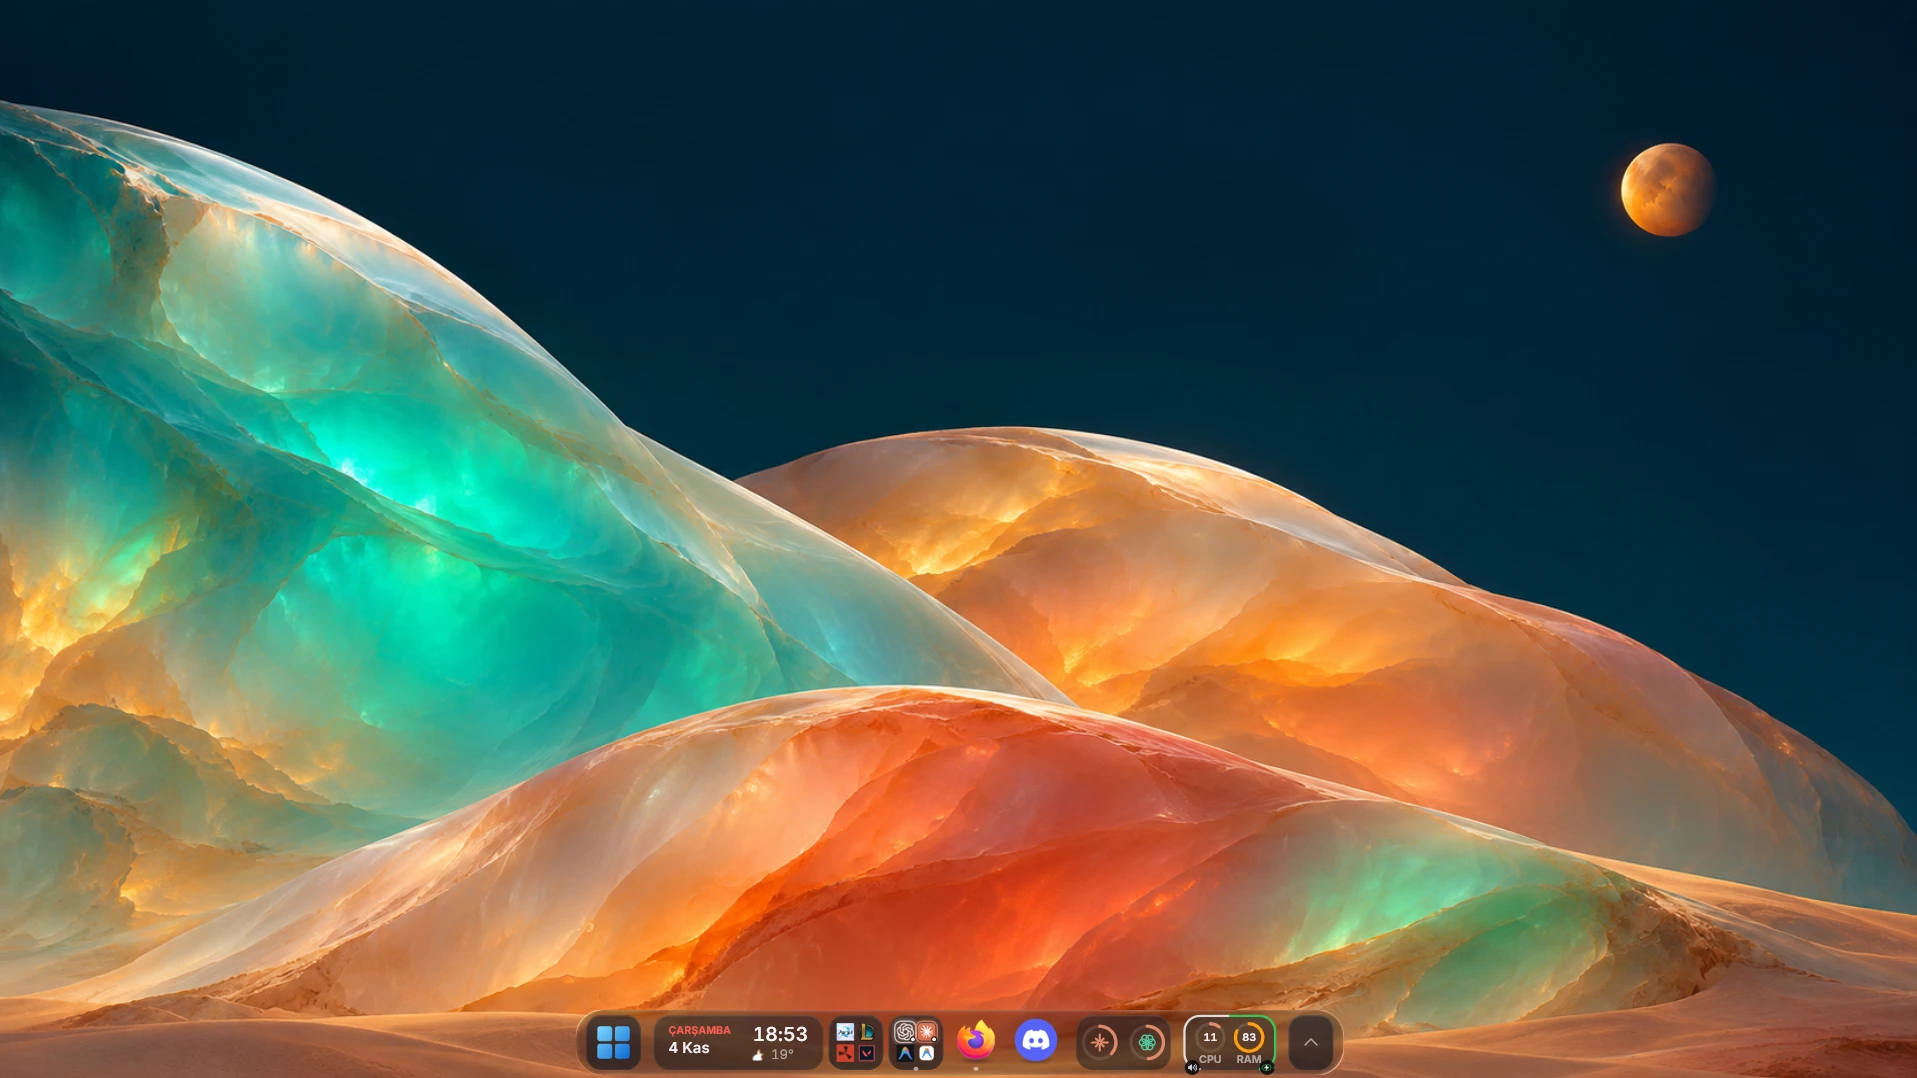
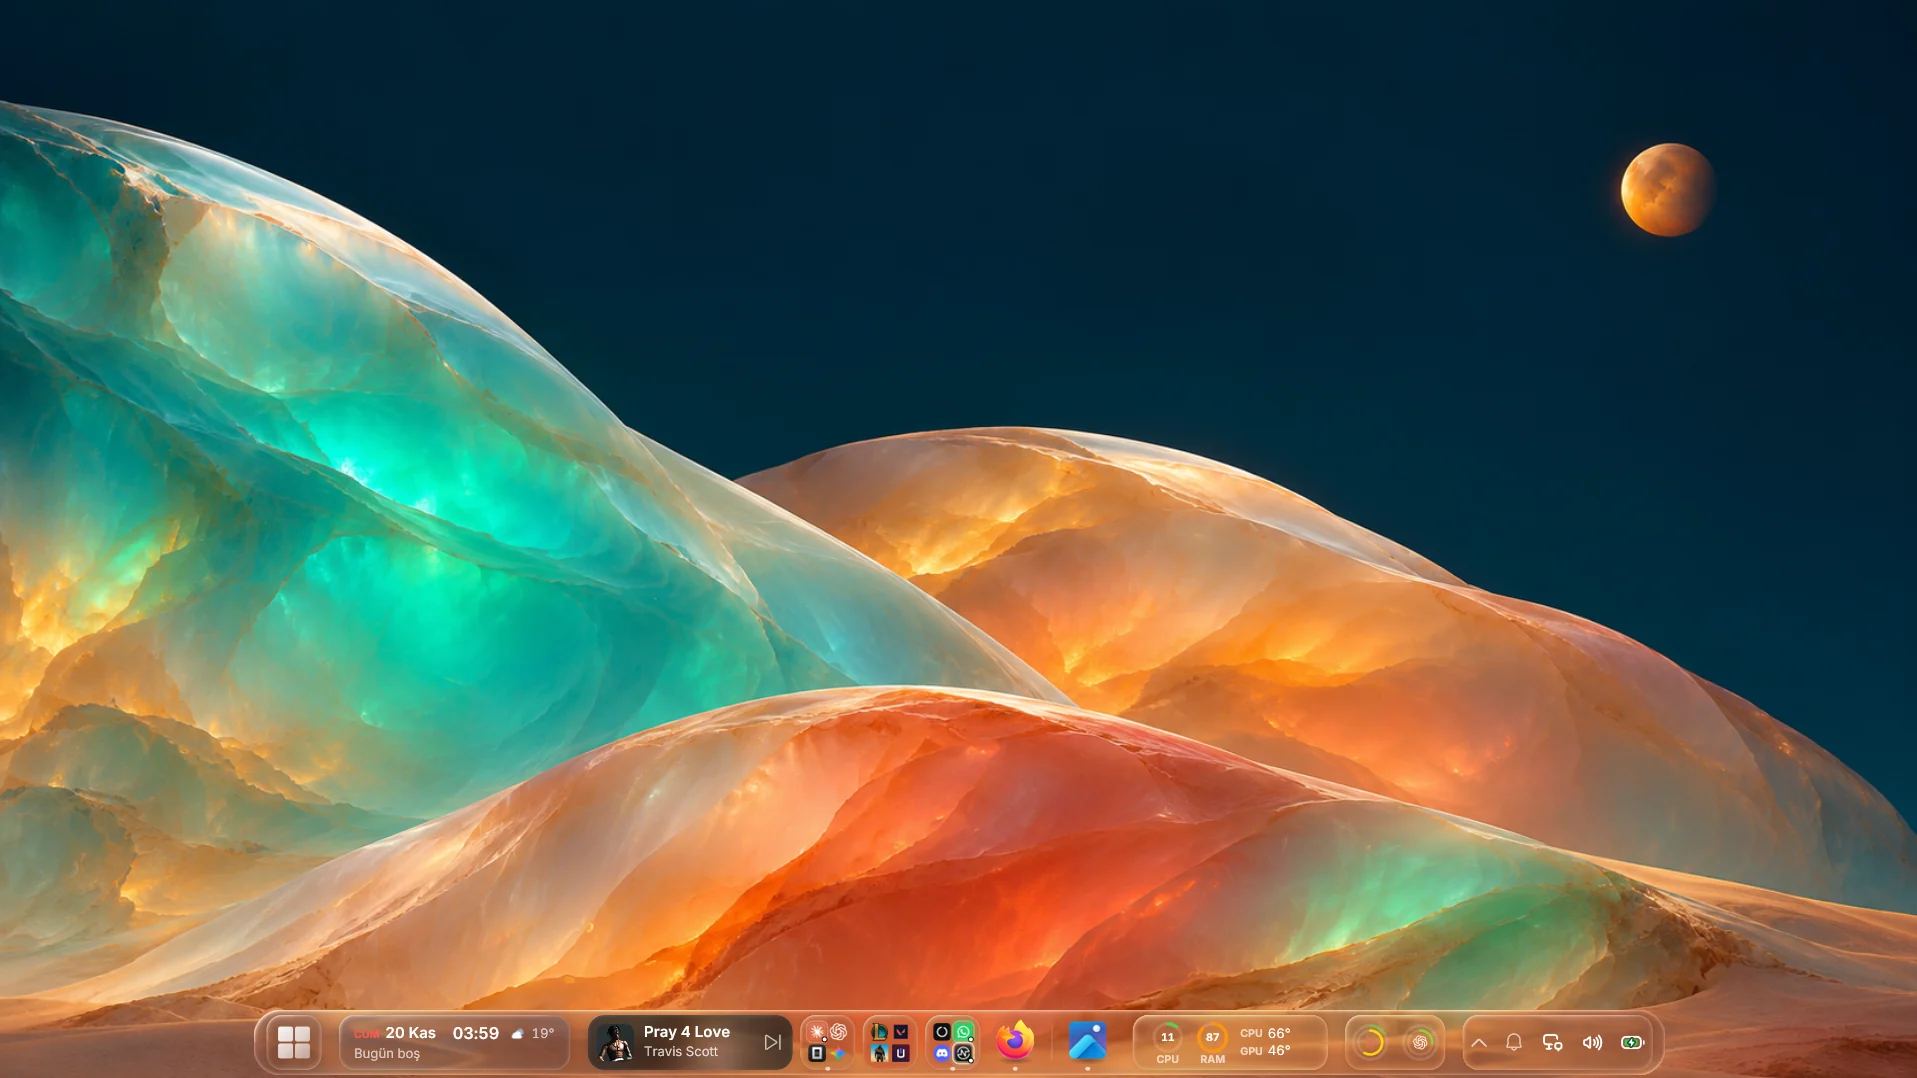
Refresh README for 0.9.0: Start, search, live wallpaper, music
New screenshots and looping animations from the current build, shorter
copy, and sections for the Start panel, the live wallpaper engine and the
music panel. Old screenshots removed.

Changed region(s): [[0.1231, 0.9184, 0.8618, 1.0]]

diff --git a/README.md b/README.md
@@ -4,17 +4,11 @@
 
 # glassdock
 
-**Windows 11 için cam bir dock.**<br>
-Görev çubuğunun yerini alır: uygulamalar, klasörler, widget'lar, takvim ve bildirimler tek bir yerde.
+Windows 11 için cam bir dock. Görev çubuğunun yerine geçer, Başlat menüsünü de yeniler.
 
-[![Son sürüm](https://img.shields.io/github/v/release/medrearalid/glassdock-releases?style=flat-square&label=s%C3%BCr%C3%BCm&color=0A84FF)](https://github.com/medrearalid/glassdock-releases/releases/latest)
-[![İndirme](https://img.shields.io/github/downloads/medrearalid/glassdock-releases/total?style=flat-square&label=indirme&color=30353d)](https://github.com/medrearalid/glassdock-releases/releases)
-[![Platform](https://img.shields.io/badge/Windows%2011-x64-30353d?style=flat-square)](#gereksinimler)
-[![Lisans](https://img.shields.io/badge/lisans-%C3%BCcretsiz-30353d?style=flat-square)](#lisans)
+<a href="https://github.com/medrearalid/glassdock-releases/releases/latest"><img src="https://img.shields.io/github/v/release/medrearalid/glassdock-releases?style=for-the-badge&label=glassdock%27u%20indir&color=0A84FF&logo=windows11&logoColor=white" alt="glassdock'u indir" height="36"></a>
 
-<a href="https://github.com/medrearalid/glassdock-releases/releases/latest"><img src="https://img.shields.io/github/v/release/medrearalid/glassdock-releases?style=for-the-badge&label=GLASSDOCK%27U%20%C4%B0ND%C4%B0R&color=0A84FF&logo=windows11&logoColor=white" alt="glassdock'u indir" height="36"></a>
-
-<sub>[Neler yeni](https://github.com/medrearalid/glassdock-releases/releases/latest) · [Kurulum](#kurulum) · [Özellikler](#özellikler) · [Gizlilik](#gizlilik) · [SSS](#sss)</sub>
+<sub>[Neler yeni](https://github.com/medrearalid/glassdock-releases/releases/latest) · [Kurulum](#kurulum) · [Gizlilik](#gizlilik) · [SSS](#sss)</sub>
 
 <br>
 
@@ -24,96 +18,65 @@ Görev çubuğunun yerini alır: uygulamalar, klasörler, widget'lar, takvim ve 
 
 <br>
 
+## Başlat ve arama
+
+Win tuşuna bas ve yazmaya başla. Uygulamalar, Windows'un bütün ayarları ve dosyaların tek listede gelir, en iyi eşleşme en üstte durur. Arama internete çıkmaz, reklam ya da web sonucu göstermez.
+
+Yazım hatalarını ve baş harfleri anlar. "vsc" yazınca Visual Studio Code bulunur. Ayarlar ana sayfaya değil doğrudan aradığın ayara açılır. Bu Bilgisayar ve Geri Dönüşüm Kutusu da burada, masaüstün boş kalabilir.
+
+<p align="center">
+  <img src="docs/start.webp" width="62%" alt="Başlat paneli ve arama">
+  <img src="docs/search.webp" width="36%" alt="Kategorilere ayrılmış arama sonuçları">
+</p>
+
+Windows'un kendi Başlat menüsünü özlersen Ayarlar › Başlat'tan tek dokunuşla geri getirebilirsin.
+
+## Canlı duvar kâğıdı
+
+Bir videoyu ya da hareketli sahneyi duvar kâğıdı yap. Pencereler üstünü kapatınca, oyunda ve pilde kendini uyutur, oyun açılınca belleği de bırakır. Dock'un camı bu hareketi arkasından yansıtır.
+
+<p align="center"><img src="docs/live-wallpaper.webp" width="100%" alt="Hareketli duvar kâğıdı ve önünde dock"></p>
+
+Henüz beta. Ayarlar › Duvar kağıdı sekmesinden açılıyor.
+
 ## Her duvar kâğıdında yerinde
 
-Cam, arkasındaki duvar kâğıdından renk alır. Liquid modda kenarlarında mercek gibi kırılır; buzlu modda sistemin bulanık camını kullanır.
+Cam, arkasındaki renkleri alır. Kenarlarında ışık mercek gibi kırılır.
 
 <p align="center">
-  <img src="docs/dock-light.png" alt="Açık duvar kâğıdı üstünde dock" width="80%"><br>
-  <img src="docs/dock-dark.png" alt="Koyu duvar kâğıdı üstünde dock" width="80%"><br>
-  <img src="docs/dock-warm.png" alt="Sıcak tonlu duvar kâğıdı üstünde dock" width="80%">
+  <img src="docs/dock-opal.png" alt="Renkli duvar kâğıdı üstünde dock" width="85%"><br>
+  <img src="docs/dock-obsidian.png" alt="Koyu duvar kâğıdı üstünde dock" width="85%"><br>
+  <img src="docs/dock-pearl.png" alt="Açık duvar kâğıdı üstünde dock" width="85%">
 </p>
 
-<p align="center">
-  <img src="docs/desktop-dark.webp" width="49%" alt="Koyu masaüstünde glassdock">
-  <img src="docs/desktop-light.webp" width="49%" alt="Açık masaüstünde glassdock">
-</p>
+## Müzik
 
-## Özellikler
+Çalan şarkı dock'ta görünür. Üstüne tıklayınca açılan panelde sıradakiler, çalma listeleri ve şarkıyla birlikte akan sözler var. Spotify, YouTube Music ve tarayıcıda çalanlarla çalışır.
 
-<table>
-<tr>
-<td width="50%" valign="top">
+<p align="center"><img src="docs/music.webp" width="34%" alt="Müzik paneli"></p>
 
-### Dock
-Liquid ya da buzlu cam; cam, gece ve açık stiller. Altta, üstte ya da yanlarda; ortada ya da kenardan kenara. Kenarından çekerek başka kenara taşınır, ekrana sığmayacak kadar büyümez.
+## Gerisi
 
-</td>
-<td width="50%" valign="top">
-
-### Uygulamalar ve klasörler
-Görev çubuğu sabitlemelerin kendiliğinden gelir. Açık pencereler gruplanır; üstüne gelince canlı önizleme ve pencere seçici açılır. Sürükle-bırak klasörler, çalışan uygulamalarda okunmamış mesaj rozetleri.
-
-</td>
-</tr>
-<tr>
-<td valign="top">
-
-### Widget'lar
-Saat ve canlı hava durumu, kapak resimli medya kontrolü, takvim, sistem kartı, tepsi simgeleri. Her widget'ın küçük, orta ve büyük boyutu var; widget'lar üst üste yığılabilir.
-
-</td>
-<td valign="top">
-
-### Takvim ve bildirimler
-Türkçe hızlı eklemeli planlayıcı ("yarın 14:30 diş hekimi 10dk önce"), sesli hatırlatıcılar ve "Sessiz" anahtarlı bildirim merkezi. Google, Outlook ya da iCloud takvimi iCal adresiyle bağlanır.
-
-</td>
-</tr>
-<tr>
-<td valign="top">
-
-### Akıllı gizlenme
-Altına etkileşimli bir şey gelince kenara çekilir, imleç kenara gelince açılır. Tam ekranda kompakt hâle geçer, oyunlarda tamamen gizlenir.
-
-</td>
-<td valign="top">
-
-### Yapay zekâ kullanımı
-Claude, ChatGPT ve Gemini limitleri tek kartta. Üstünde durunca tüm limitler ve yenilenme saatleri açılır; limit azalınca bildirim gelir.
-
-</td>
-</tr>
-<tr>
-<td valign="top">
-
-### Hareket
-GPU'da çizilen genie küçültme, uygulama açılış ve pencere geçiş animasyonları. Hepsi *performans modu* ile tek anahtardan kapanır.
-
-</td>
-<td valign="top">
-
-### Güncellemeler
-Günde bir kez denetlenir. Yeni sürüm SHA-256 ile doğrulanıp sessizce kurulur; dock'un kendi kartı yenilikleri özetler, notların tamamı ayarlarda.
-
-</td>
-</tr>
-</table>
+- **Uygulamalar ve klasörler.** Görev çubuğu sabitlerin kendiliğinden gelir. Açık pencerelerin canlı önizlemesi, sürükle bırak klasörler ve okunmamış mesaj rozetleri var.
+- **Widget'lar.** Saat ve hava durumu, takvim, sistem kartı, yapay zekâ kullanım limitleri ve tepsi simgeleri. Her birinin üç boyutu var, üst üste de yığılabilir.
+- **Bildirimler.** Windows bildirimleri dock'un kendi kartlarıyla gelir ve tepsideki zilde toplanır. Türkçe yazılan hatırlatıcılar da burada.
+- **Akıllı gizlenme.** Bir pencere altına gelince kenara çekilir, imleç kenara gelince döner. Oyunda tamamen kaybolur.
+- **Güncellemeler.** Günde bir kez bakar, yeni sürümü doğrulayıp sessizce kurar.
 
 ## Kurulum
 
 1. [Son sürümün sayfasından](https://github.com/medrearalid/glassdock-releases/releases/latest) `glassdock-x.y.z-setup.exe` dosyasını indir.
-2. Çalıştır. Yönetici izni gerekmez; kendi kullanıcı klasörüne kurulur.
-3. Dock ekranın altında açılır. Ayarlar için dock'a sağ tıkla → **Ayarlar…**
+2. Çalıştır. Yönetici izni istemez.
+3. Dock ekranın altında açılır. Ayarlar için dock'a sağ tıkla.
 
-Kurulduktan sonra glassdock kendini güncel tutar; bir daha indirmen gerekmez.
+Sonrasında glassdock kendini güncel tutar.
 
 <details>
 <summary><b>"Windows bilgisayarınızı korudu" uyarısı çıkarsa</b></summary>
 
 <br>
 
-Kurulum dosyası henüz kod imzalı değil, bu yüzden SmartScreen uyarı verebilir. **Ek bilgi → Yine de çalıştır** ile devam edebilirsin. İstersen indirdiğin dosyayı, sürümün yanındaki `.sha256` dosyasıyla karşılaştır:
+Kurulum dosyası henüz imzalı olmadığı için SmartScreen uyarabilir. Ek bilgi › Yine de çalıştır ile devam edebilirsin. İstersen dosyayı sürümün yanındaki `.sha256` ile karşılaştır.
 
 ```powershell
 Get-FileHash .\glassdock-x.y.z-setup.exe -Algorithm SHA256
@@ -121,31 +84,26 @@ Get-FileHash .\glassdock-x.y.z-setup.exe -Algorithm SHA256
 
 </details>
 
-### Gereksinimler
-
-| | |
-|:--|:--|
-| **Sistem** | Windows 11, 64 bit (Windows 10'da denenmedi) |
-| **Yetki** | Yönetici izni gerekmez |
-| **Bileşenler** | WebView2, yalnızca ayarlar penceresi için (Windows 11'de yüklü gelir) |
-| **Boyut** | Kurulum dosyası yaklaşık 4 MB |
+Windows 11, 64 bit gerekir. Kurulum dosyası yaklaşık 5 MB.
 
 ## Gizlilik
 
-glassdock hesap istemez, kullanım verisi ya da telemetri göndermez. Yalnızca açtığın özellikler için şu adreslere bağlanır:
+glassdock hesap istemez, telemetri göndermez. Arama ve Başlat paneli tamamen bilgisayarında çalışır. İnternete yalnızca açtığın özellikler için çıkar.
 
 | Özellik | Bağlandığı yer |
 |:--|:--|
 | Hava durumu | Open-Meteo |
-| Takvim | Yalnızca senin eklediğin iCal adresleri |
-| Güncelleme | GitHub (bu depo) |
-| Yapay zekâ kullanımı | Bilgisayarındaki Claude Code, Codex ya da Gemini CLI girişiyle, ilgili sağlayıcının kullanım adresi |
+| Takvim | Eklediğin iCal adresleri |
+| Şarkı sözleri | LRCLIB, lyrics.ovh, NetEase |
+| Spotify | Bağlarsan yalnızca Spotify |
+| Yapay zekâ kullanımı | Bilgisayarındaki Claude, ChatGPT ya da Gemini girişinle ilgili sağlayıcı |
+| Güncelleme | GitHub |
 
-Ayarların ve hatırlatıcıların bilgisayarında, `%APPDATA%\glassdock` klasöründe durur.
+Ayarların `%APPDATA%\glassdock` klasöründe durur.
 
 ## Duvar kâğıtları
 
-Ekran görüntülerindeki duvar kâğıtları burada; hepsi 1672×941. Görsele tıkla, açılan sayfada **Download raw file** (⬇) ile indir. Hepsi için **Code → Download ZIP**. *Grain* sürümlerinde ince bir film greni var.
+Ekran görüntülerindeki cam duvar kâğıtları burada, hepsi 1672×941. Görsele tıkla ve açılan sayfadan indir. Hepsini birden almak için Code › Download ZIP. Grain sürümlerinde ince bir film greni var.
 
 | | |
 |:-:|:-:|
@@ -159,37 +117,31 @@ Ekran görüntülerindeki duvar kâğıtları burada; hepsi 1672×941. Görsele 
 <details>
 <summary><b>Windows görev çubuğuna ne oluyor?</b></summary>
 <br>
-glassdock açıkken görev çubuğunu gizler ve tepsi simgelerini kendisi gösterir. Dock kapanınca ya da kaldırılınca görev çubuğu olduğu gibi geri gelir.
+glassdock açıkken görev çubuğu gizlenir. Dock kapanınca ya da kaldırılınca olduğu gibi geri gelir.
 </details>
 
 <details>
 <summary><b>Oyunlarda performansı etkiler mi?</b></summary>
 <br>
-Tam ekran oyunlarda dock tamamen gizlenir ve güncellemeler oyun bitene kadar bekler. Eski bilgisayarlarda <i>performans modu</i> animasyonları kapatıp buzlu cama geçer.
+Tam ekran oyunda dock ve duvar kâğıdı durur, güncellemeler oyun bitene kadar bekler. Eski bilgisayarlarda performans modu animasyonları kapatır.
+</details>
+
+<details>
+<summary><b>Win tuşu bazen Windows Başlat'ı açıyor</b></summary>
+<br>
+Oyun sırasında ve yönetici olarak çalışan bir pencere öndeyken Windows kendi menüsünü açar. Bu Windows'un bir sınırı.
 </details>
 
 <details>
 <summary><b>Nasıl kaldırırım?</b></summary>
 <br>
-<b>Ayarlar → Uygulamalar → Yüklü uygulamalar → glassdock → Kaldır.</b> Ayarların <code>%APPDATA%\glassdock</code> klasöründe kalır; tamamen temizlemek için o klasörü de silebilirsin.
-</details>
-
-<details>
-<summary><b>Otomatik güncellemeyi kapatabilir miyim?</b></summary>
-<br>
-Evet: <b>Ayarlar → Genel → Güncelleme</b>. Elle denetlemek için dock'a sağ tıkla → <b>Güncellemeleri denetle</b>.
+Ayarlar › Uygulamalar › Yüklü uygulamalar › glassdock › Kaldır. Ayarları da silmek istersen <code>%APPDATA%\glassdock</code> klasörünü sil.
 </details>
 
 ## Geri bildirim
 
-Hata ya da öneri için bir [issue aç](https://github.com/medrearalid/glassdock-releases/issues). Ekran görüntüsü ve Windows sürümünü eklersen hata daha çabuk çözülür.
+Hata ya da öneri için bir [issue aç](https://github.com/medrearalid/glassdock-releases/issues). Ekran görüntüsü eklersen daha çabuk çözeriz.
 
 ## Lisans
 
-© 2026 Guney. Tüm hakları saklıdır.
-
-glassdock ücretsiz kullanılabilir ama açık kaynak değil. Bu depoda yalnızca kurulum dosyaları ve duvar kâğıtları var. Kendi bilgisayarlarında kurup kullanabilir, duvar kâğıtlarını arka plan yapabilirsin; yeniden dağıtmak, değiştirmek ya da satmak yazılı izne bağlı. Koşulların tamamı [LICENSE](LICENSE) dosyasında.
-
-<br>
-
-<p align="center"><sub>glassdock · Windows 11 için cam dock</sub></p>
+© 2026 Guney. Tüm hakları saklıdır. glassdock ücretsizdir ama açık kaynak değildir. Kendi bilgisayarında kullanabilir, duvar kâğıtlarını arka plan yapabilirsin. Yeniden dağıtmak, değiştirmek ya da satmak yazılı izne bağlı. Ayrıntılar [LICENSE](LICENSE) dosyasında.
